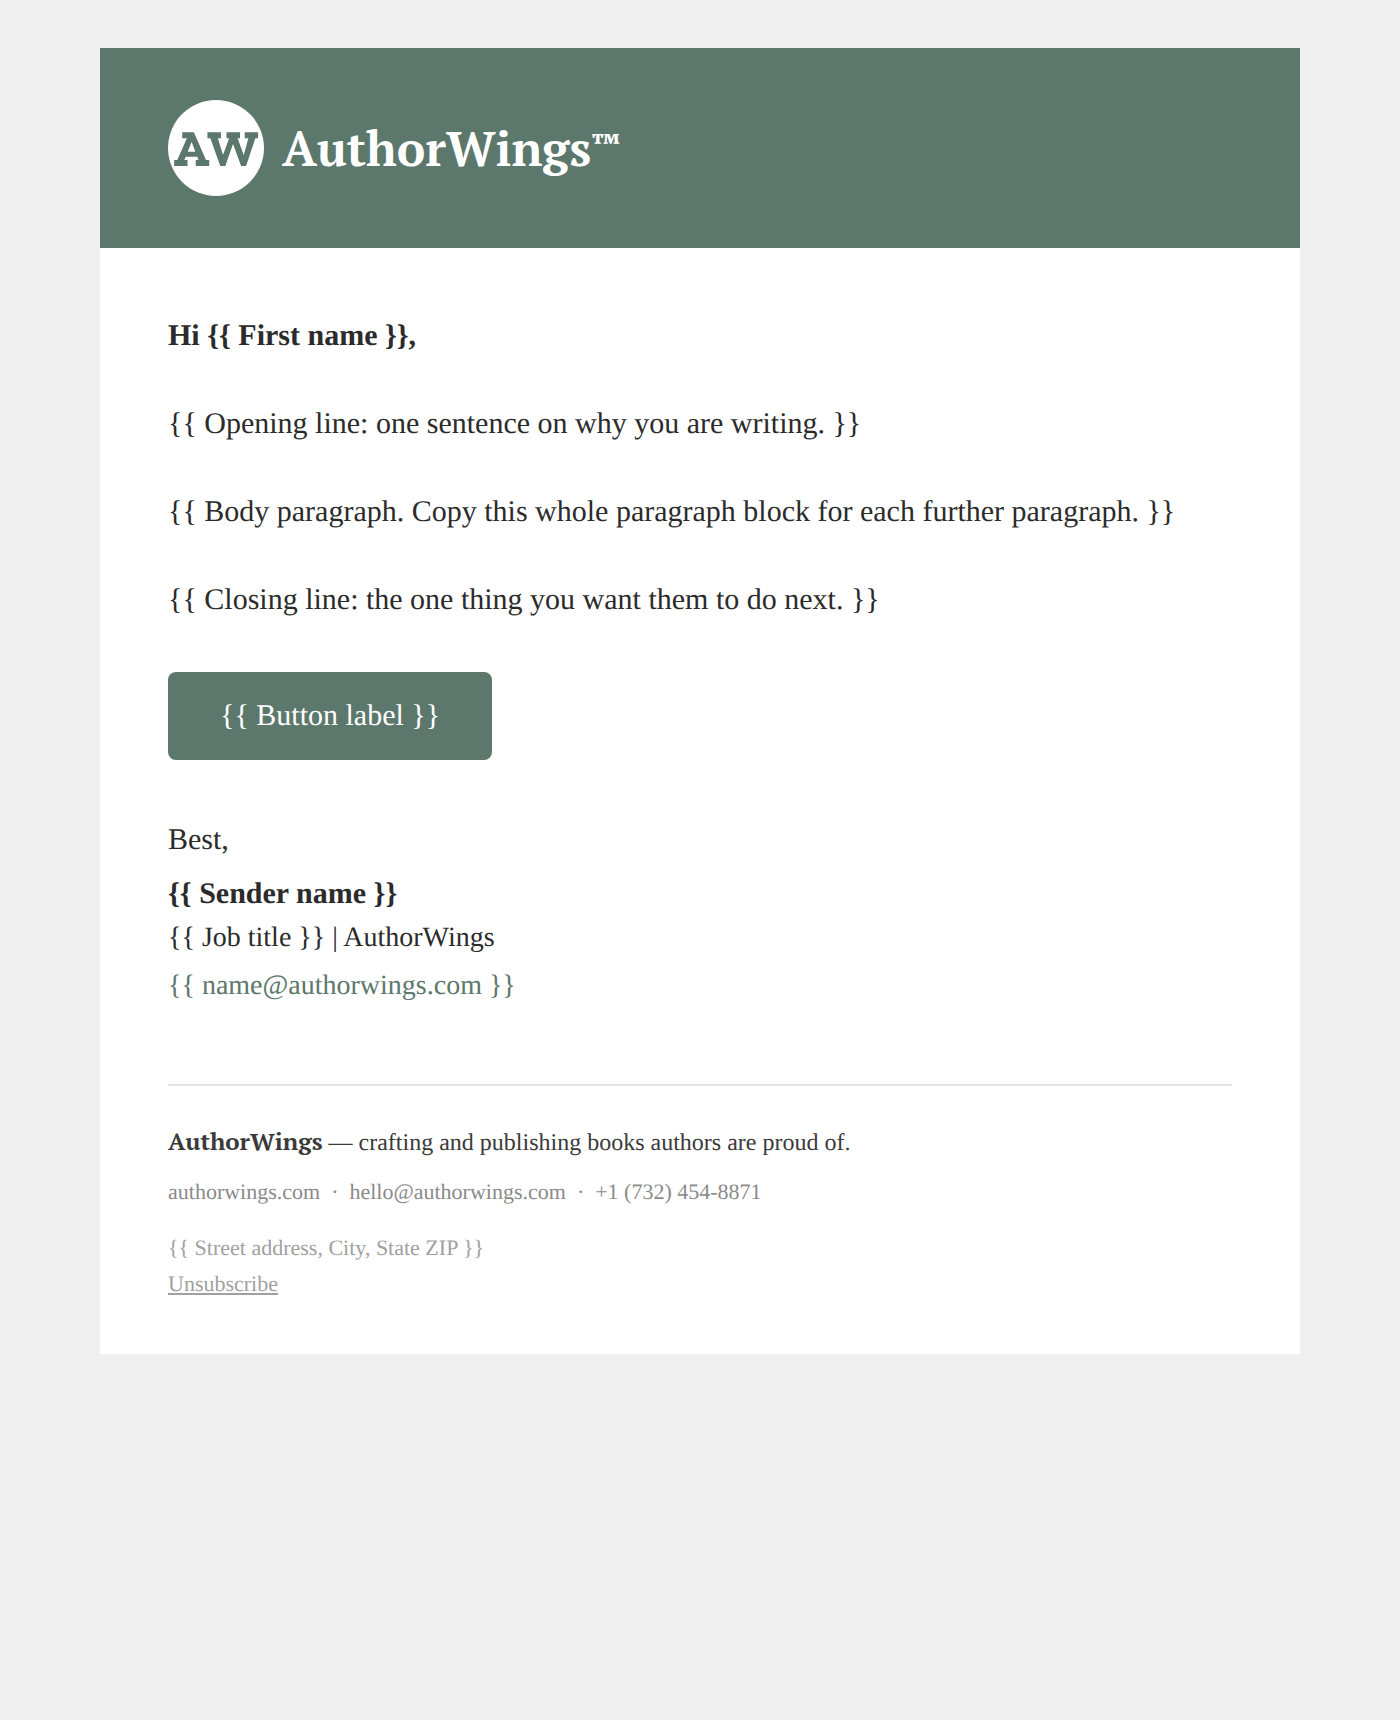
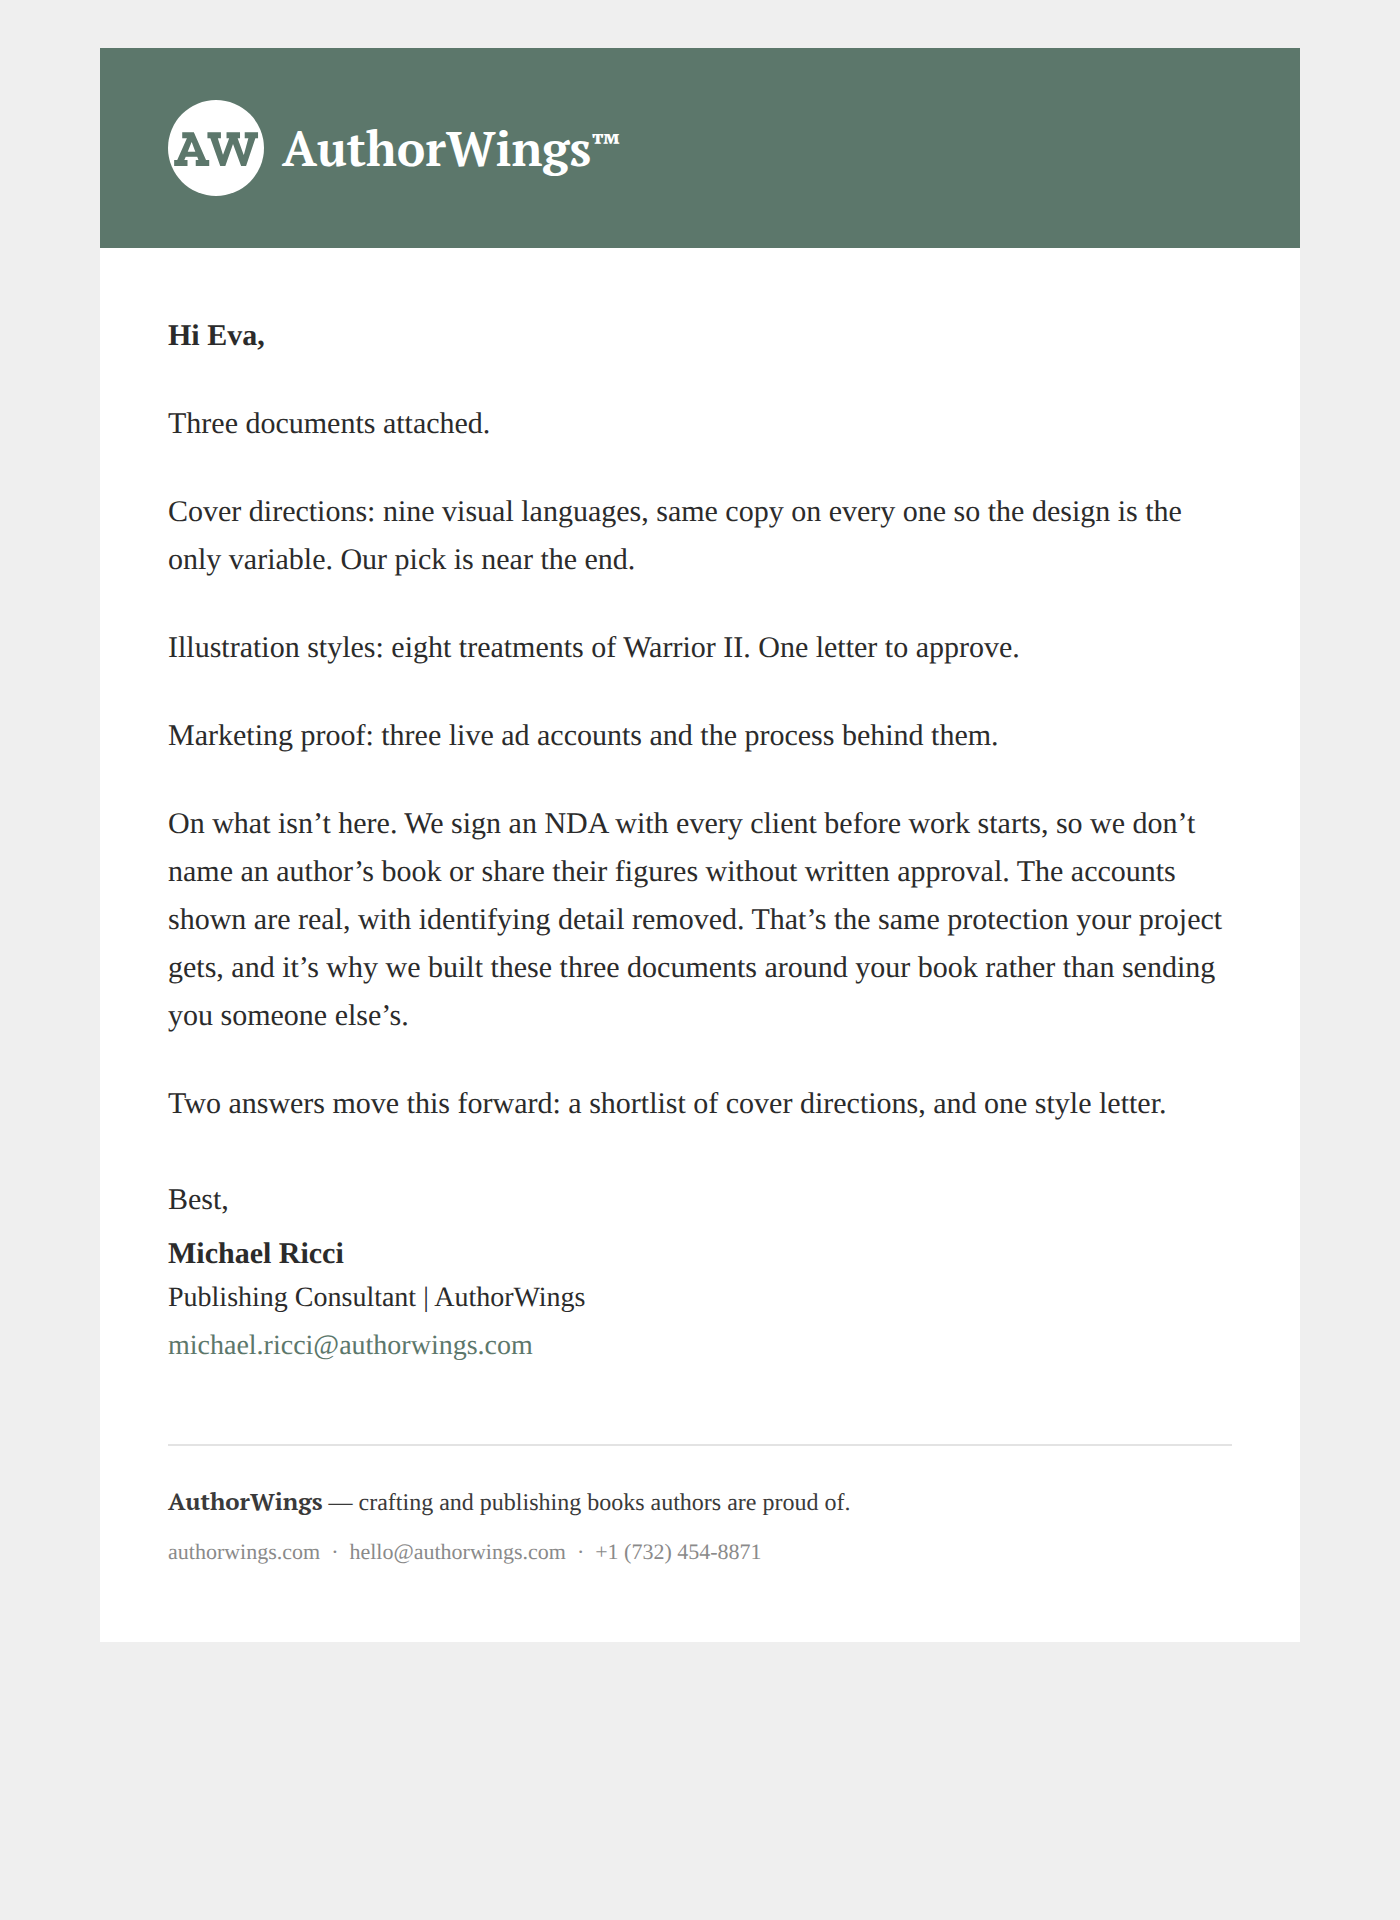
Fill the template with the Eva letter and drop the button
Replaces every placeholder with the copy, signature and subject from the
screenshot, and removes the call-to-action button, which this email does
not use. The address and unsubscribe block goes too, since a one-to-one
reply is exempt from CAN-SPAM; a comment marks where it belongs for
marketing sends.

Changed region(s): [[0.0614, 0.0308, 0.9521, 0.5855], [0.1229, 0.6163, 0.5836, 0.832], [0.43, 0.5547, 0.8293, 0.5855]]

diff --git a/email/authorwings-email-template.html b/email/authorwings-email-template.html
@@ -6,7 +6,7 @@
 <meta name="x-apple-disable-message-reformatting" />
 <meta name="color-scheme" content="light" />
 <meta name="supported-color-schemes" content="light" />
-<title>AuthorWings &mdash; Email Template</title>
+<title>Looking Forward to Speaking with You Tomorrow</title>
 
 <style type="text/css">
   /* Zilla Slab Bold and PT Serif Bold, subset to just the logo's letters and
@@ -44,7 +44,7 @@
 <!-- PREHEADER: the line shown next to the subject in the inbox. Replace it;
      it stays hidden inside the email itself. -->
 <div style="display:none; font-size:1px; line-height:1px; max-height:0; max-width:0; opacity:0; overflow:hidden; mso-hide:all; font-family:Georgia,'Times New Roman',Times,serif;">
-  {{ Preview line, about 70 characters }}
+  Three documents attached: cover directions, illustration styles, and marketing proof.
   &#847;&zwnj;&nbsp;&#847;&zwnj;&nbsp;&#847;&zwnj;&nbsp;&#847;&zwnj;&nbsp;&#847;&zwnj;&nbsp;&#847;&zwnj;&nbsp;&#847;&zwnj;&nbsp;&#847;&zwnj;&nbsp;
 </div>
 
@@ -104,7 +104,7 @@
         <!-- ==================== END HEADER ==================== -->
 
         <!-- ============================================================
-             BODY - replace everything inside the {{ }} markers.
+             BODY
              Copy is set in Georgia rather than the embedded faces:
              Gmail and Outlook strip @font-face, so Georgia is what keeps
              the copy looking the same in every client.
@@ -115,47 +115,45 @@
                      font-size:15px; line-height:24px; color:#2B2B2B; mso-line-height-rule:exactly;">
 
             <p style="margin:0 0 20px 0; font-family:Georgia,'Times New Roman',Times,serif; font-size:15px; line-height:24px; color:#2B2B2B; font-weight:bold;">
-              Hi {{ First name }},
+              Hi Eva,
             </p>
 
             <p style="margin:0 0 20px 0; font-family:Georgia,'Times New Roman',Times,serif; font-size:15px; line-height:24px; color:#2B2B2B;">
-              {{ Opening line: one sentence on why you are writing. }}
+              Three documents attached.
             </p>
 
             <p style="margin:0 0 20px 0; font-family:Georgia,'Times New Roman',Times,serif; font-size:15px; line-height:24px; color:#2B2B2B;">
-              {{ Body paragraph. Copy this whole paragraph block for each further paragraph. }}
+              Cover directions: nine visual languages, same copy on every one so the design is the only variable. Our pick is near the end.
+            </p>
+
+            <p style="margin:0 0 20px 0; font-family:Georgia,'Times New Roman',Times,serif; font-size:15px; line-height:24px; color:#2B2B2B;">
+              Illustration styles: eight treatments of Warrior II. One letter to approve.
+            </p>
+
+            <p style="margin:0 0 20px 0; font-family:Georgia,'Times New Roman',Times,serif; font-size:15px; line-height:24px; color:#2B2B2B;">
+              Marketing proof: three live ad accounts and the process behind them.
+            </p>
+
+            <p style="margin:0 0 20px 0; font-family:Georgia,'Times New Roman',Times,serif; font-size:15px; line-height:24px; color:#2B2B2B;">
+              On what isn&rsquo;t here. We sign an NDA with every client before work starts, so we don&rsquo;t name an author&rsquo;s book or share their figures without written approval. The accounts shown are real, with identifying detail removed. That&rsquo;s the same protection your project gets, and it&rsquo;s why we built these three documents around your book rather than sending you someone else&rsquo;s.
             </p>
 
             <p style="margin:0 0 24px 0; font-family:Georgia,'Times New Roman',Times,serif; font-size:15px; line-height:24px; color:#2B2B2B;">
-              {{ Closing line: the one thing you want them to do next. }}
+              Two answers move this forward: a shortlist of cover directions, and one style letter.
             </p>
-
-            <!-- OPTIONAL BUTTON - delete this table when the email has no call to action.
-                 Change the href and the label; the button sizes itself to the text. -->
-            <table role="presentation" cellpadding="0" cellspacing="0" border="0" style="margin:0 0 28px 0;">
-              <tr>
-                <td align="center" bgcolor="#5C776B"
-                    style="background-color:#5C776B; border-radius:4px; -webkit-border-radius:4px;">
-                  <a href="https://authorwings.com/contact/"
-                     style="display:inline-block; padding:13px 26px; font-family:Georgia,'Times New Roman',Times,serif;
-                            font-size:15px; line-height:18px; color:#FFFFFF; text-decoration:none;
-                            border-radius:4px; mso-line-height-rule:exactly;">{{ Button label }}</a>
-                </td>
-              </tr>
-            </table>
 
             <!-- SIGNATURE -->
             <p style="margin:0 0 4px 0; font-family:Georgia,'Times New Roman',Times,serif; font-size:15px; line-height:24px; color:#2B2B2B;">
               Best,
             </p>
             <p style="margin:0; font-family:Georgia,'Times New Roman',Times,serif; font-size:15px; line-height:22px; color:#2B2B2B; font-weight:bold;">
-              {{ Sender name }}
+              Michael Ricci
             </p>
             <p style="margin:0 0 2px 0; font-family:Georgia,'Times New Roman',Times,serif; font-size:14px; line-height:22px; color:#2B2B2B;">
-              {{ Job title }} | AuthorWings
+              Publishing Consultant | AuthorWings
             </p>
             <p style="margin:0 0 30px 0; font-family:Georgia,'Times New Roman',Times,serif; font-size:14px; line-height:22px;">
-              <a href="mailto:name@authorwings.com" style="color:#5C776B; text-decoration:none;">{{ name@authorwings.com }}</a>
+              <a href="mailto:michael.ricci@authorwings.com" style="color:#5C776B; text-decoration:none;">michael.ricci@authorwings.com</a>
             </p>
 
           </td>
@@ -191,12 +189,8 @@
               <a href="tel:+17324548871" style="color:#8A8A8A; text-decoration:none;">+1 (732) 454-8871</a>
             </p>
 
-            <!-- A postal address and a working unsubscribe link are required by
-                 CAN-SPAM on marketing mail. Delete this block for one-to-one replies. -->
-            <p style="margin:0; font-family:Georgia,'Times New Roman',Times,serif; font-size:11px; line-height:18px; color:#A0A0A0;">
-              {{ Street address, City, State ZIP }}<br />
-              <a href="{{ unsubscribe_url }}" style="color:#A0A0A0; text-decoration:underline;">Unsubscribe</a>
-            </p>
+            <!-- Marketing sends also need a postal address and a working
+                 unsubscribe link here; a one-to-one reply like this does not. -->
 
           </td>
         </tr>
